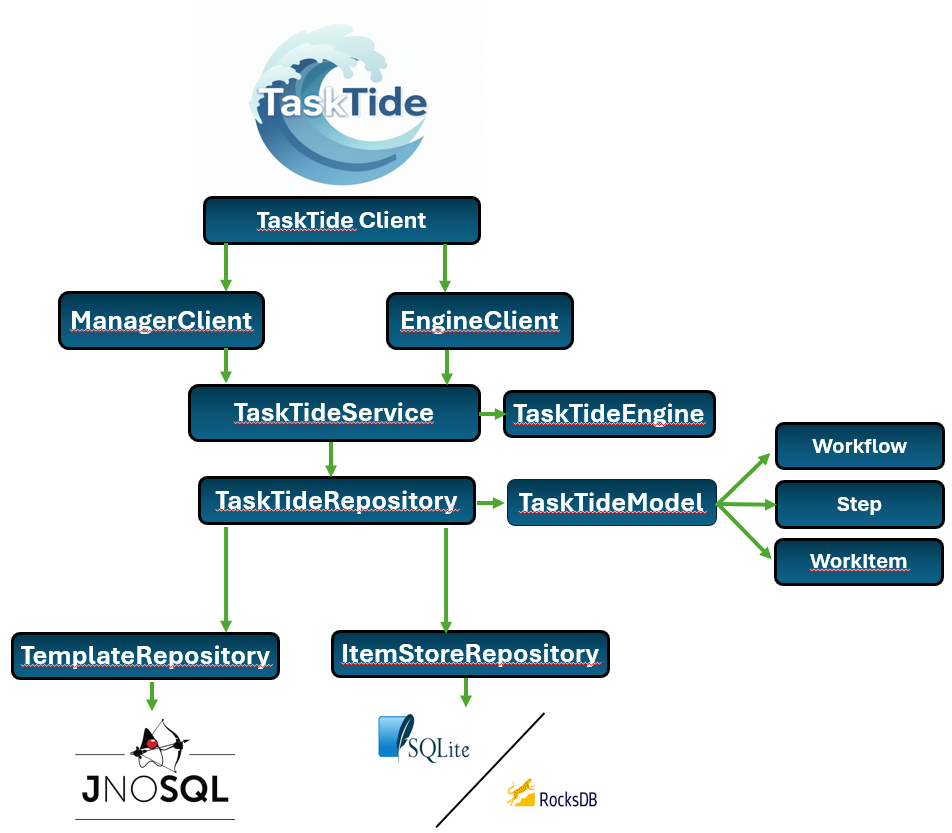
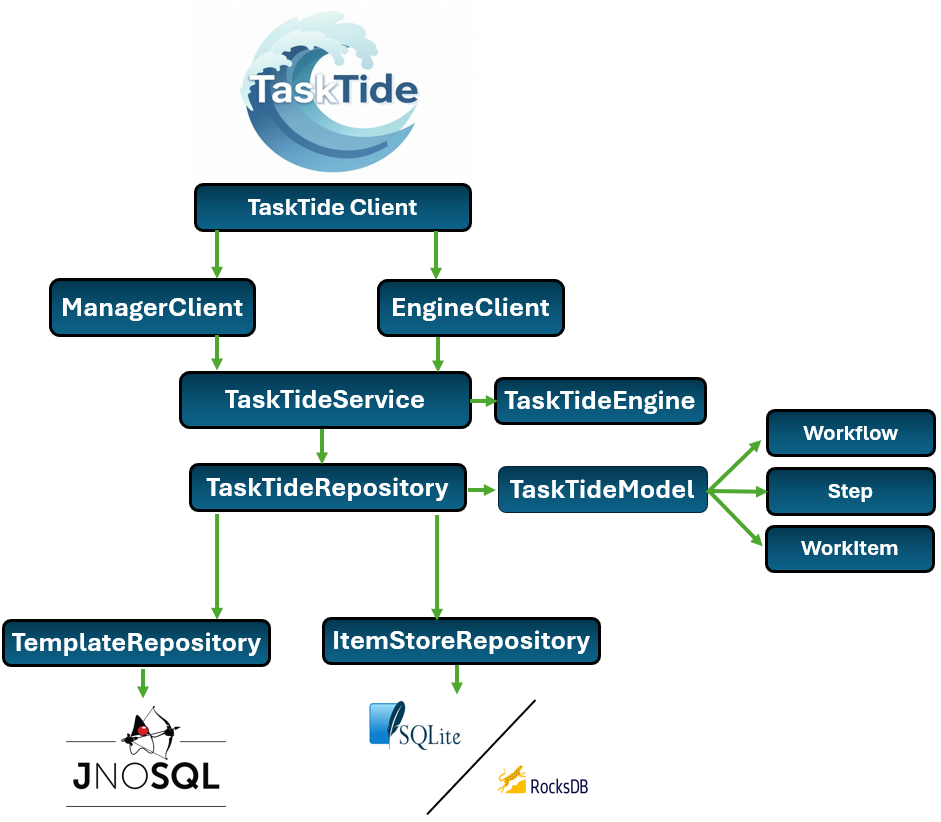
Repo Updates - Architecture Diagram + ReadMe

diff --git a/README.md b/README.md
@@ -1,5 +1,5 @@
 <p align="center">
-  <img src="tasktide/docs/assets/logo1.jpg" alt="TaskTide Logo" width="300"/>
+  <img src="/tasktide/docs/assets/logo1.jpg" alt="TaskTide Logo" width="300"/>
 </p>
 
 # TaskTide
@@ -15,20 +15,19 @@
 
 - 🛠 **Pilot Job Execution Model** – Tasks are dynamically scheduled and executed inside long-running jobs.
 - 🔄 **ETL-Friendly**: Tasks are treated as extraction, transformation, or loading scripts/programs.
-- <img src="tasktide/docs/assets/database.png" alt="Database Icon from 'https://www.flaticon.com/free-icons/database'" width="18"/> **Backend Agnostic** – Works with Document (e.g. MongoDB), Embedded (e.g. RocksDB), and Key-Value (e.g. Redis) stores.
+- <img src="/tasktide/docs/assets/database.png" alt="Database Icon from 'https://www.flaticon.com/free-icons/database'" width="18"/> **Backend Agnostic** – Works with Document (e.g. MongoDB), Embedded (e.g. RocksDB), and Key-Value (e.g. Redis) stores.
 - 💻 **Native Task Execution** – Runs any local or system executable/script.
 - 🔀 **Nested Workflow Modeling** – Compose tasks into hierarchical workflows using a flexible domain model.
-- 📦 **Gradle Ready** – Available on Maven Central for easy integration.
 - 🧪 **Tested**: Built with CI/CD, Docker support, and integration tests across database types.
 
 ---
 
 ## 🧱 Architecture
 
-- **Core Model** – Defines the stateful task and workflow data structure.
-- **Engine** – The CLI-based executor that processes and tracks WorkItems and their tasks.
-- **Manager** – Provides access and services for workflows and persistence.
+- **Core Model**  – Defines the stateful task and workflow data structure.
+- **Engine**      – Processes and tracks WorkItems and their tasks.
+- **Manager**     – Provides access and services for workflows and persistence.
 
 <p align="center">
-  <img src="tasktide/docs/assets/tasktide-arch.png" alt="TaskTide Architecture"/>
+  <img src="/tasktide/docs/assets/tasktide-arch.png" alt="TaskTide Architecture"/>
 </p>

diff --git a/tasktide/itemstore/README.md b/tasktide/itemstore/README.md
@@ -13,5 +13,5 @@ Currently this is branch is only developed with RocksDB & SQLite in mind, and Ro
 
 
 <p align="center">
-  <img src="itemstore-uml.svg" alt="ItemStore-UML"/>
+  <img src="/tasktide/docs/uml/itemstore-uml.svg" alt="ItemStore-UML"/>
 </p>
